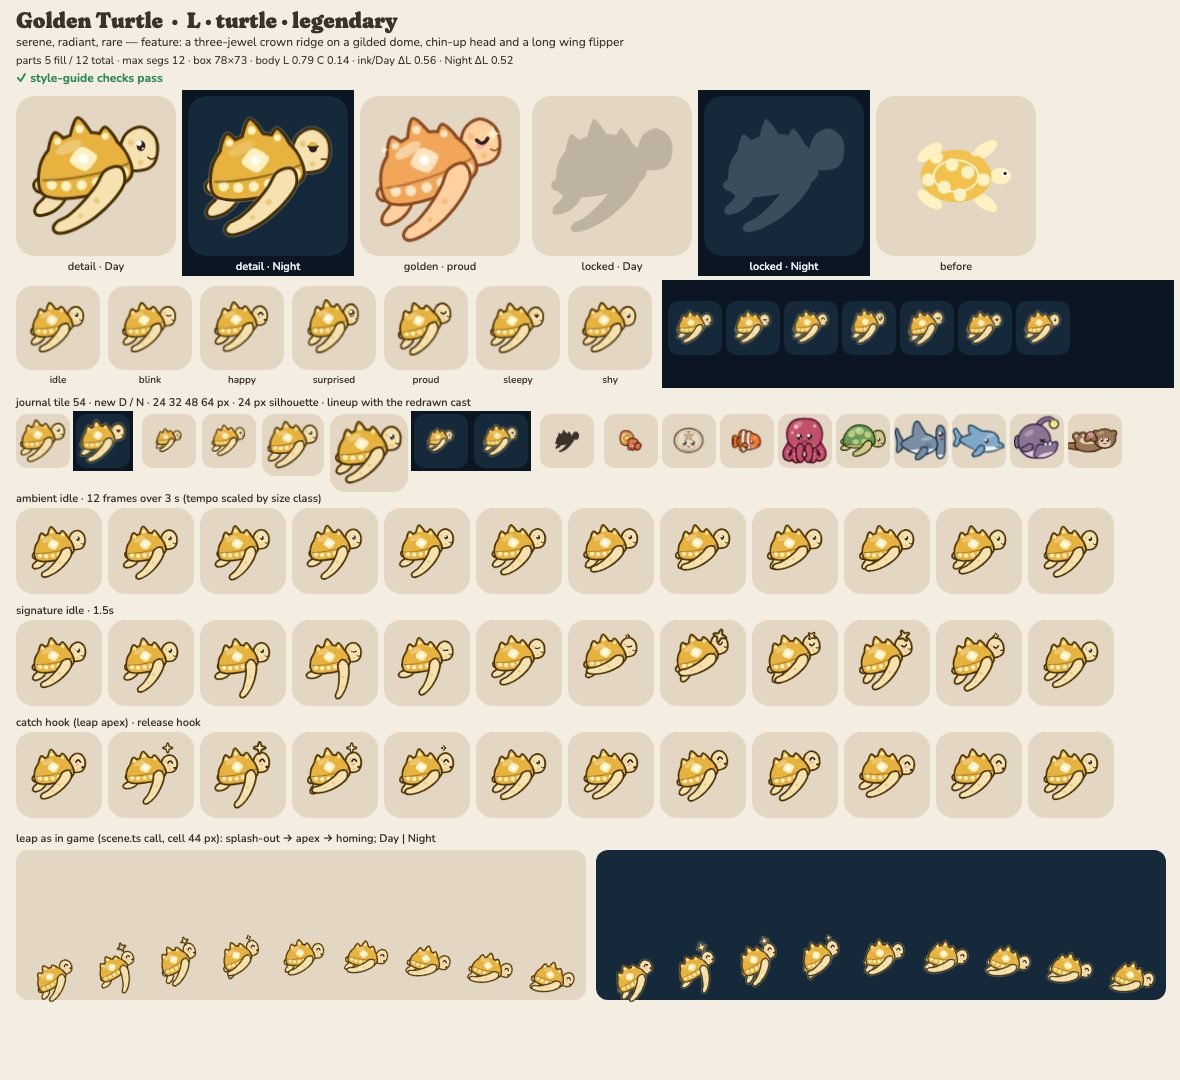
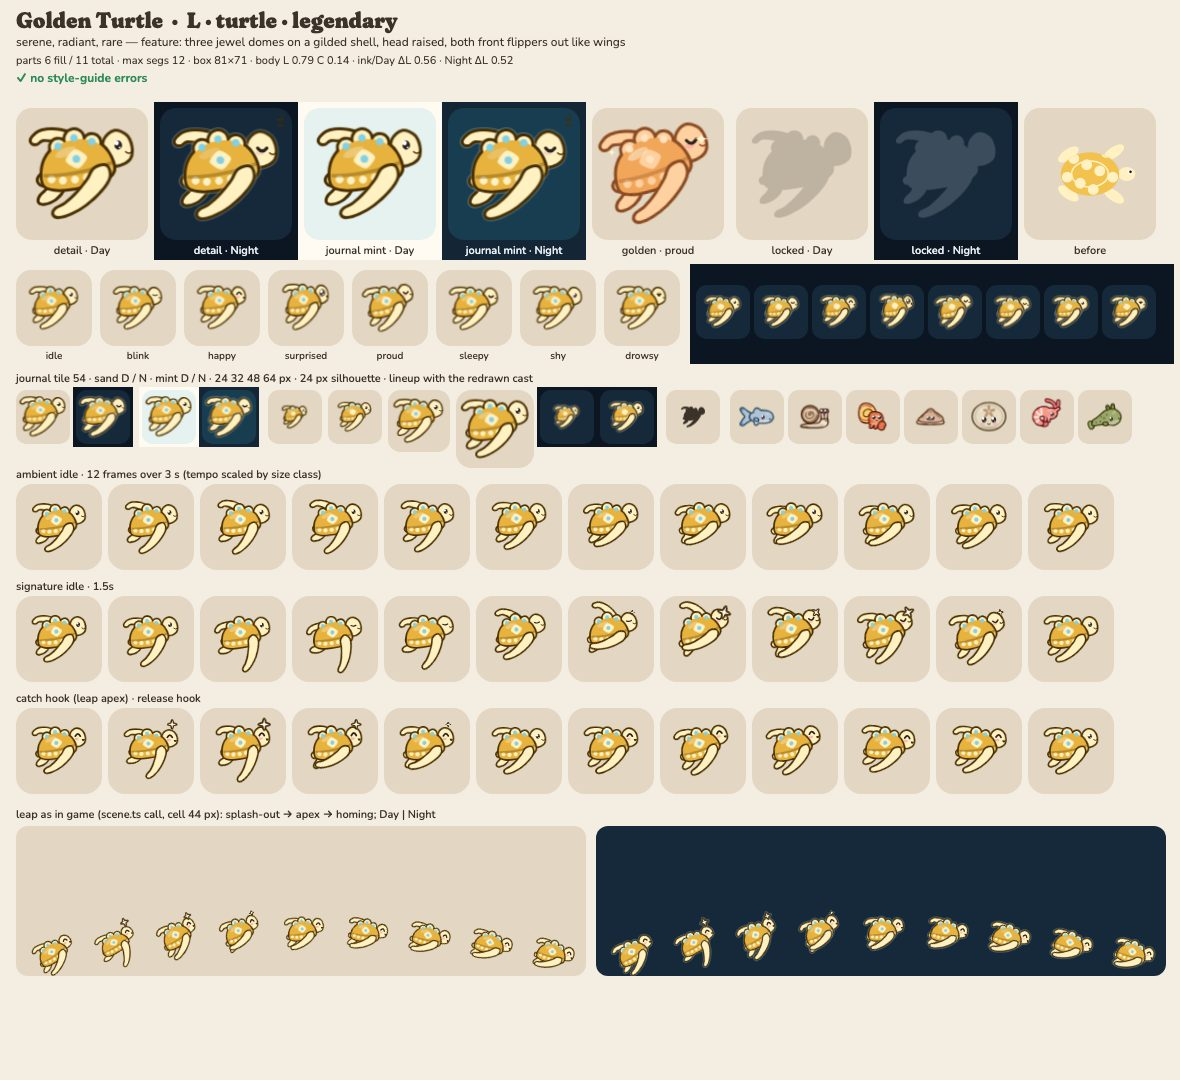
art: goldturtle — jewel domes and a winged flying pose (ADR 0011)
CRITIQUE-1 B: spiked ridge replaced by 3 rounded cream jewel domes with
blue gems (palette gold / cream / gem blue); head up 15 deg on the 10 deg
glide, far flipper raised behind the shell as a second wing. Eye at the
floor, dots >= 6 u, rim 3 u. Lint-clean; sea turtle no longer close.

diff --git a/src/render/art/species/goldturtle.ts b/src/render/art/species/goldturtle.ts
@@ -1,15 +1,33 @@
 /**
- * Golden Turtle — LEGENDARY, TURTLE class (profile, gliding). Not a recolour of the sea turtle:
- * - silhouette: a three-jewel crown ridge on the dome, a raised head held chin-up, and a long
- *   wing-like front flipper (R10: crown + wing);
- * - pattern: gilded: a diamond medallion with a gem, a border of pearls along an ink-trimmed rim;
- * - expression: serene, regal (proud at the end of its performance), a sparkle signature.
- * Palette: sun gold `#E8B23E` shell, cream `#FFF1C2` medallion, pearls and jewels, ivory skin. Golden variant
- * is rose gold (R33), so a golden Golden Turtle still stands apart.
- * Signature: one slow, grand "flight" stroke with both flippers; it rises, and a little star
- * sparkle twinkles above the crown.
+ * Golden Turtle — LEGENDARY, TURTLE class (profile, flying). Not a recolour of the sea turtle:
+ * - silhouette: three rounded jewel domes along the dome of the shell, the whole body tilted 10°
+ *   nose-up, the head raised another 15°, and BOTH front flippers out like wings: the near one
+ *   swept down-back, the far one raised up-back behind the shell (R10: domes + wings);
+ * - pattern: gilded: cream domes with blue gem centres, a diamond medallion with a gem, a border of
+ *   pearls along the rim (the pilot has scute spots);
+ * - expression: serene and regal (proud at the end of its performance), a sparkle signature.
+ * Palette: sun gold `#E8B23E` shell, cream `#FFF1C2` skin/domes/pearls, gem blue `#7FD1E8`.
+ * Golden variant is rose gold (R33), so a golden Golden Turtle still stands apart.
+ * Signature: one slow, grand "flight" stroke with both wings; it rises, and a star sparkle
+ * twinkles above its head.
  */
 import { blob, circle, defineArt, ellipse, join, tube, xform } from '../kit.ts';
+
+// the pose: drawn level, then the body tilts 10° nose-up and the head lifts 15° more at the neck
+const TILT = -10;
+const T = (d: string) => xform(d, { rot: TILT });
+const H = (d: string) => T(xform(d, { rot: -15, ox: 18, oy: -2 }));
+const rot = ([x, y]: readonly [number, number], deg: number, ox = 0, oy = 0): [number, number] => {
+  const a = (deg * Math.PI) / 180;
+  const dx = x - ox,
+    dy = y - oy;
+  return [
+    Math.round((ox + dx * Math.cos(a) - dy * Math.sin(a)) * 100) / 100,
+    Math.round((oy + dx * Math.sin(a) + dy * Math.cos(a)) * 100) / 100,
+  ];
+};
+const tp = (pt: readonly [number, number]) => rot(pt, TILT);
+const hp = (pt: readonly [number, number]) => tp(rot(pt, -15, 18, -2));
 
 const shell = blob([
   [-36, 6],
@@ -23,17 +41,14 @@ const shell = blob([
   [-12, 14],
   [-28, 12],
 ]);
-// a tiara of three rounded points (R3: round tips), the middle one tallest
-const point = (x: number, y: number, h: number, w: number, lean: number) =>
-  blob(
-    [
-      [x - w, y + 4],
-      [x + lean, y - h],
-      [x + w, y + 4],
-    ],
-    0.75,
-  );
-const crown = join(point(-20, -20, 8, 6.5, -1), point(-5, -24, 11, 7, 0), point(10, -18, 8, 6.5, 1));
+// three rounded jewel domes along the top (round, never spiked: CRITIQUE-1 originality note)
+const DOMES: readonly (readonly [number, number, number])[] = [
+  [-19, -21, 6.2],
+  [-5, -25.5, 7.2],
+  [9, -20, 6.2],
+];
+const domes = join(...DOMES.map(([x, y, r]) => circle(x, y, r)));
+const gems = join(...DOMES.map(([x, y]) => circle(x, y - 0.8, 3.1)));
 const head = blob([
   [18, -8],
   [24, -19],
@@ -44,12 +59,20 @@ const head = blob([
   [26, 4],
   [18, 0],
 ]);
-const frontFlipper = tube([
+const nearWing = tube([
   [12, 6, 6.5],
   [4, 15, 6.4],
   [-8, 24, 5.4],
   [-20, 30, 4],
   [-29, 32, 3],
+]);
+// the far front flipper, raised: only its upper half shows above the back of the shell
+const farWing = tube([
+  [8, -6, 6.2],
+  [-4, -21, 5.6],
+  [-17, -30, 4.4],
+  [-30, -33, 3.2],
+  [-37, -30, 2.6],
 ]);
 const backFlipper = join(
   tube([
@@ -59,17 +82,16 @@ const backFlipper = join(
   ]),
   circle(-36, 3, 3.6),
 );
-// the gilded mosaic: a gem medallion, a pearl border along the rim, jewels on the crown
-const plates = join(
-  blob(
-    [
-      [-6, -17],
-      [3, -9],
-      [-6, -1],
-      [-15, -9],
-    ],
-    0.8,
-  ),
+const medallion = blob(
+  [
+    [-6, -17],
+    [3, -9],
+    [-6, -1],
+    [-15, -9],
+  ],
+  0.8,
+);
+const pearls = join(
   circle(-29, 4, 3.3),
   circle(-20, 6.5, 3.3),
   circle(-10, 7.5, 3.3),
@@ -77,70 +99,54 @@ const plates = join(
   circle(10, 6.5, 3.3),
   circle(18, 4, 3.3),
 );
-const jewels = join(circle(-20.5, -23, 2.3), circle(-5, -28.5, 2.7), circle(10.5, -21, 2.3));
-// the whole pose is drawn level, then tilted 10° nose-up: it glides upward, regal (and its
-// silhouette leaves the sea turtle's)
-const T = (d: string) => xform(d, { rot: -10 });
 const sparkle = blob(
   [
-    [26, -45],
-    [27.6, -39.6],
-    [33, -38],
-    [27.6, -36.4],
-    [26, -31],
-    [24.4, -36.4],
-    [19, -38],
-    [24.4, -39.6],
+    [30, -45],
+    [31.6, -39.6],
+    [37, -38],
+    [31.6, -36.4],
+    [30, -31],
+    [28.4, -36.4],
+    [23, -38],
+    [28.4, -39.6],
   ],
   0.7,
 );
+const eye = hp([32, -11]);
 
 export default defineArt({
   id: 'goldturtle',
   klass: 'turtle',
   size: 'L',
-  feature: 'a three-jewel crown ridge on a gilded dome, chin-up head and a long wing flipper',
+  feature: 'three jewel domes on a gilded shell, head raised, both front flippers out like wings',
   personality: ['serene', 'radiant', 'rare'],
-  palette: { body: '#E8B23E', accent: '#FFF1C2', belly: '#F5E2B0' },
+  palette: { body: '#E8B23E', accent: '#7FD1E8', belly: '#FFF1C2' },
   golden: 'rose',
   groups: [
-    { id: 'flipB', pivot: [-25, 14.5], parts: [{ d: T(backFlipper), role: 'belly' }] },
-    {
-      id: 'head',
-      pivot: [17.4, -5.1],
-      parts: [
-        { d: T(head), role: 'belly' },
-        { d: T(join(circle(26, -14, 2), circle(30, 0, 1.8))), role: 'body', kind: 'pattern', alpha: 0.5 },
-      ],
-    },
+    { id: 'wing', pivot: tp([8, -6]), parts: [{ d: T(farWing), role: 'belly' }] },
+    { id: 'flipB', pivot: tp([-27, 10]), parts: [{ d: T(backFlipper), role: 'belly' }] },
+    { id: 'head', pivot: tp([18, -2]), parts: [{ d: H(head), role: 'belly' }] },
     {
       id: 'body',
       parts: [
-        { d: T(crown), role: 'body' },
+        { d: T(domes), role: 'belly' },
         { d: T(shell), role: 'body' },
-        { d: T(plates), role: 'accent', kind: 'pattern' },
-        { d: T(jewels), role: 'accent', kind: 'pattern' },
-        { d: T(circle(-6, -9, 3)), role: 'white', kind: 'pattern' },
-        { d: T('M-34 0C-20 3 6 3 22 -1'), role: 'ink', kind: 'line', w: 1.4, alpha: 0.5 },
+        { d: T(gems), role: 'accent', kind: 'pattern' },
+        { d: T(join(medallion, pearls)), role: 'belly', kind: 'pattern' },
+        { d: T(circle(-6, -9, 3.2)), role: 'accent', kind: 'pattern' },
+        { d: T('M-34 0C-20 3 6 3 22 -1'), role: 'ink', kind: 'line', w: 3, alpha: 0.3 },
       ],
     },
-    {
-      id: 'flipF',
-      pivot: [12.9, 3.8],
-      parts: [
-        { d: T(frontFlipper), role: 'belly' },
-        { d: T(join(circle(-2, 19, 2), circle(-14, 27, 1.6))), role: 'body', kind: 'pattern', alpha: 0.5 },
-      ],
-    },
-    { id: 'sparkle', pivot: [26, -38], prop: true, parts: [{ d: sparkle, role: 'light' }] },
+    { id: 'flipF', pivot: tp([12, 6]), parts: [{ d: T(nearWing), role: 'belly' }] },
+    { id: 'sparkle', pivot: [30, -38], prop: true, parts: [{ d: sparkle, role: 'white' }] },
   ],
-  shine: T(ellipse(-14, -18, 9, 3.6, -14)),
+  shine: T(ellipse(-14, -16, 9, 3.4, -14)),
   face: {
     g: 'head',
-    eyes: [[29.6, -16.4]],
-    eye: 6.6,
-    zone: [15, -32.4, 26, 28],
-    mouth: { at: [36.5, -9], w: 5, shape: 'smile' },
+    eyes: [eye],
+    eye: 7.4,
+    zone: [eye[0] - 13, eye[1] - 18, 26, 31],
+    mouth: { at: hp([37.5, -2.5]), w: 5, shape: 'smile' },
   },
   deviations: {
     R7: 'profile eye sits on the round head (its own face zone), as on the sea turtle pilot',
@@ -149,6 +155,7 @@ export default defineArt({
     ambient: [
       { m: 'bob', amp: 2, period: 3.4 },
       { m: 'paddle', g: 'flipF', amp: 14, period: 2.4 },
+      { m: 'paddle', g: 'wing', amp: -10, period: 2.4 },
       { m: 'paddle', g: 'flipB', amp: 14, period: 2.4, phase: 0.5 },
       { m: 'sway', g: 'head', amp: 2.5, period: 3.4, phase: 0.3 },
     ],
@@ -174,6 +181,17 @@ export default defineArt({
             [0, 0],
             [0.3, 24],
             [0.65, -16],
+            [1, 0],
+          ],
+        },
+        {
+          g: 'wing',
+          p: 'rot',
+          k: [
+            [0, 0],
+            [0.25, -18],
+            [0.6, 30],
+            [0.85, 4],
             [1, 0],
           ],
         },

diff --git a/docs/art/notes/fleet-5.md b/docs/art/notes/fleet-5.md
@@ -168,3 +168,18 @@ Species: hammerhead, dolphin, whaleshark, angler, otter, goldturtle. Sheets in `
 - **Self-grade:** A-. Lint-clean; closest flounder 0.71 (cross-class), cuttle 0.67 (chibi, < 0.70).
 - **Would improve:** the back-float is wide and short, so it still fills less of the tile than the
   other L species.
+
+## goldturtle — B → redo of the crest and pose
+- **Brief:** the spiked ridge read as a famous video-game villain's shell (originality risk) →
+  3 rounded jewel domes (`#FFF1C2`, `#7FD1E8` gem centres); a pose distinct from the turtle (head
+  up 15°, both flippers out like wings).
+- **Build:** cream domes with blue gems along the shell top; palette is now gold body, cream
+  `#FFF1C2` (skin, domes, pearls, medallion) and gem blue `#7FD1E8` (gems, medallion gem), still 3
+  colours. Body tilted 10° nose-up, head lifted another 15° at the neck (face anchors computed
+  through the same transforms), the far front flipper raised up-back behind the shell as a second
+  wing (new `wing` group, strokes with the near flipper in the signature), eye 7.4 (floor 7.06),
+  pearls/gems ≥ 6 units, rim line 3 units. Sparkle is now white.
+- **Rounds (2):** (1) the raised far flipper was wide with a round tip and read as a bunny ear;
+  (2) tapered and tip-curled like a flipper, domes enlarged so the gems sit inside cream jewels.
+- **Self-grade:** A-. Lint-clean; it now flies. Closest: sunfish 0.66 (cross-class); the sea turtle
+  is no longer among its 10 closest.
